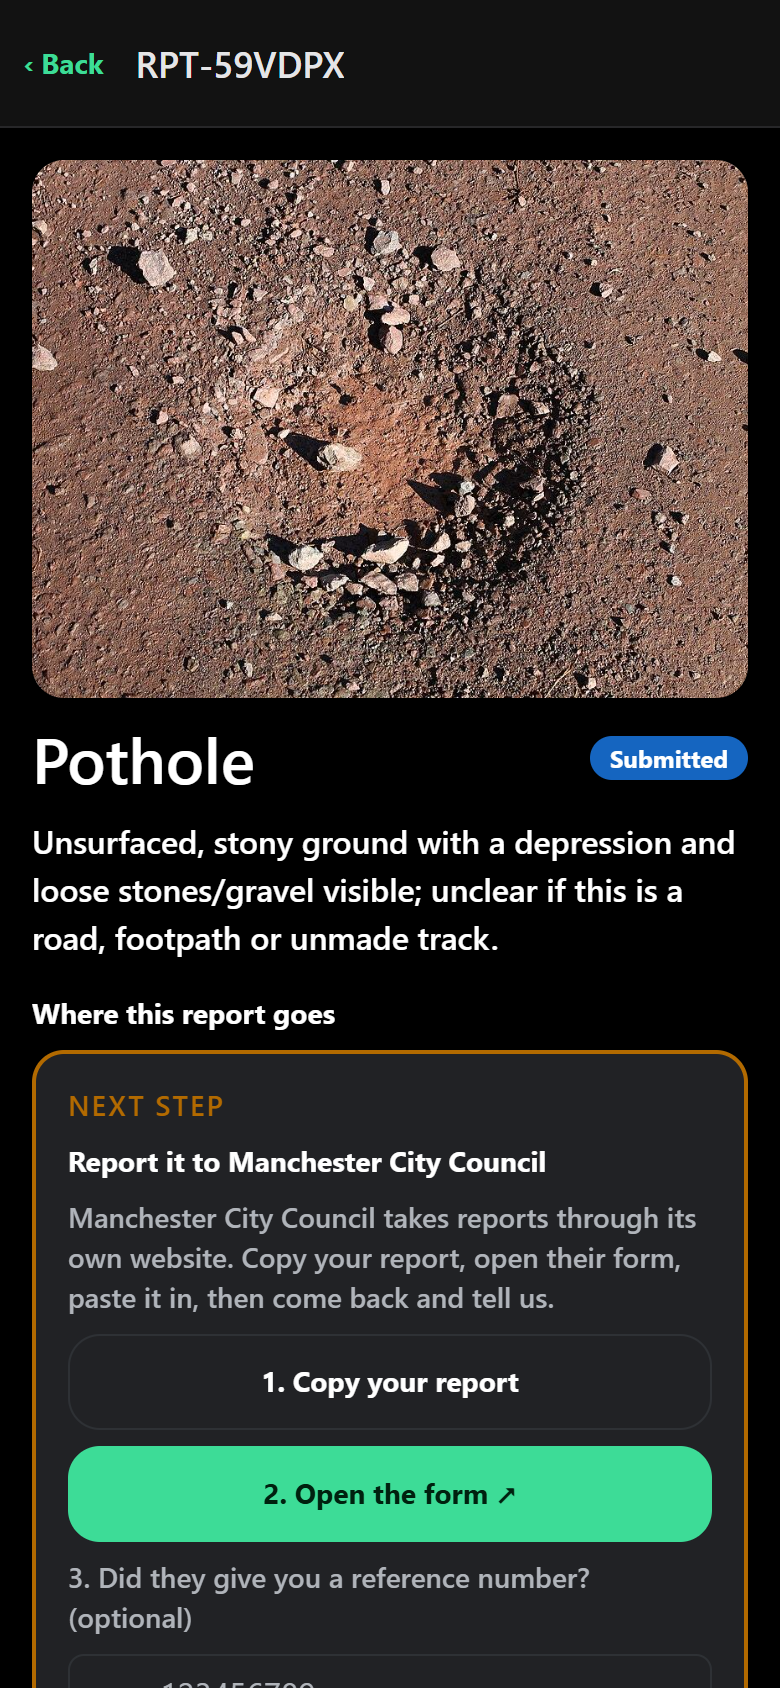
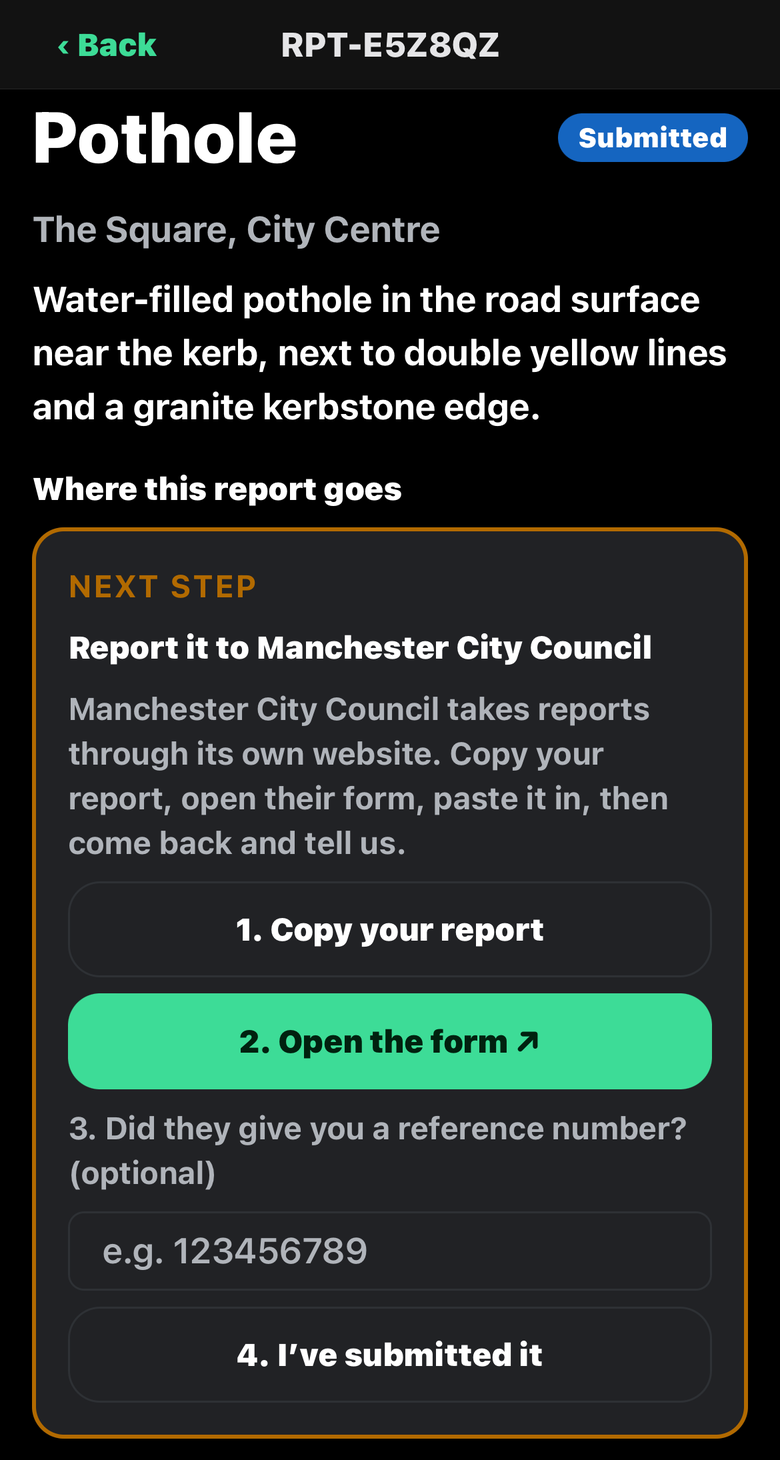
Site: use real iPhone screenshots, cleaned of status and home bars
Replace browser captures with device screenshots (native map, AI photo
detection, council form hand-off, emailed ASB report). Frame screenshots
so they keep full width, and drop the Wikimedia photo credit (no longer used).

Claude-Session: https://claude.ai/code/session_01Kh2ALbG4bj6DWBVZscH6mS

diff --git a/site/index.html b/site/index.html
@@ -27,7 +27,9 @@
     .steps li::before { content: counter(s); display: block; font-weight: 700; color: var(--accent); margin-bottom: 4px; }
     .shots { display: flex; gap: 16px; overflow-x: auto; padding: 4px 2px 12px; scroll-snap-type: x mandatory; }
     figure { margin: 0; flex: 0 0 230px; scroll-snap-align: start; }
-    figure img { width: 100%; height: 460px; object-fit: cover; object-position: top; border-radius: 18px; border: 1px solid var(--line); display: block; }
+    /* Fixed-height frame; screenshots keep full width and only crop from the bottom. */
+    .frame { height: 460px; overflow: hidden; border-radius: 18px; border: 1px solid var(--line); background: #000; }
+    .frame img { width: 100%; height: auto; display: block; }
     figcaption { font-size: 14px; color: var(--muted); margin-top: 8px; }
     ul { padding-left: 20px; }
     footer { margin-top: 56px; padding-top: 16px; border-top: 1px solid var(--line); font-size: 13px; color: var(--muted); }
@@ -50,11 +52,12 @@
 
   <h2>Screenshots</h2>
   <div class="shots">
-    <figure><img src="img/home.png" alt="Map of nearby reports in Manchester city centre with a list of reports and their status" loading="lazy"><figcaption>Reports near you</figcaption></figure>
-    <figure><img src="img/categories.png" alt="Report form with four category tiles" loading="lazy"><figcaption>One decision at a time</figcaption></figure>
-    <figure><img src="img/safety.png" alt="Anti-social behaviour report with 999 and 101 prompts and a one-line location" loading="lazy"><figcaption>Safety first for ASB</figcaption></figure>
-    <figure><img src="img/next-step.png" alt="Report page showing a next step card to submit to Manchester City Council's form" loading="lazy"><figcaption>Straight to the right council form</figcaption></figure>
-    <figure><img src="img/emailed.png" alt="Report emailed to Manchester City Council with the email shown, plus a Greater Manchester Police form link" loading="lazy"><figcaption>Emailed, with a copy for you</figcaption></figure>
+    <figure><div class="frame"><img src="img/home.png" alt="Map of nearby reports in Spinningfields, Manchester, with a list of reports and their status" loading="lazy"></div><figcaption>Reports near you</figcaption></figure>
+    <figure><div class="frame"><img src="img/detected.png" alt="A photo of a water-filled pothole by double yellow lines, detected as a pothole with 75% confidence, located from the photo" loading="lazy"></div><figcaption>Detected from the photo</figcaption></figure>
+    <figure><div class="frame"><img src="img/categories.png" alt="Report form with four category tiles" loading="lazy"></div><figcaption>Or pick it yourself</figcaption></figure>
+    <figure><div class="frame"><img src="img/safety.png" alt="Anti-social behaviour report with 999 and 101 prompts" loading="lazy"></div><figcaption>Safety first for ASB</figcaption></figure>
+    <figure><div class="frame"><img src="img/next-step.png" alt="Pothole report with a next step card linking to Manchester City Council's own form" loading="lazy"></div><figcaption>Straight to the right council form</figcaption></figure>
+    <figure><div class="frame"><img src="img/emailed.png" alt="ASB report emailed to Manchester City Council's ASB team and reported to Greater Manchester Police" loading="lazy"></div><figcaption>Emailed and tracked</figcaption></figure>
   </div>
 
   <h2>What's inside</h2>
@@ -67,9 +70,9 @@
 
   <footer>
     <p>A prototype. It isn't a live service, and no reports are sent to real councils. <a href="https://github.com/alexgitta/report">Source on GitHub</a>.</p>
-    <p>Data: ONS Open Geography, GOV.UK Local Links and data.police.uk (Open Government Licence). Maps © <a href="https://www.openstreetmap.org/copyright">OpenStreetMap contributors</a>.</p>
-    <p>Pothole photo in the screenshots: “Pothole on Huntington Creek Road” by Jakec, <a href="https://creativecommons.org/licenses/by-sa/4.0/">CC BY-SA 4.0</a>, via <a href="https://commons.wikimedia.org/wiki/File:Pothole_on_Huntington_Creek_Road.JPG">Wikimedia Commons</a>.</p>
-  </footer>
+    <p>Data: ONS Open Geography, GOV.UK Local Links and data.police.uk (Open Government Licence). Web maps © <a href="https://www.openstreetmap.org/copyright">OpenStreetMap contributors</a>; the iPhone screenshots use Apple Maps.</p>
+  
+</footer>
 </main>
 </body>
 </html>
